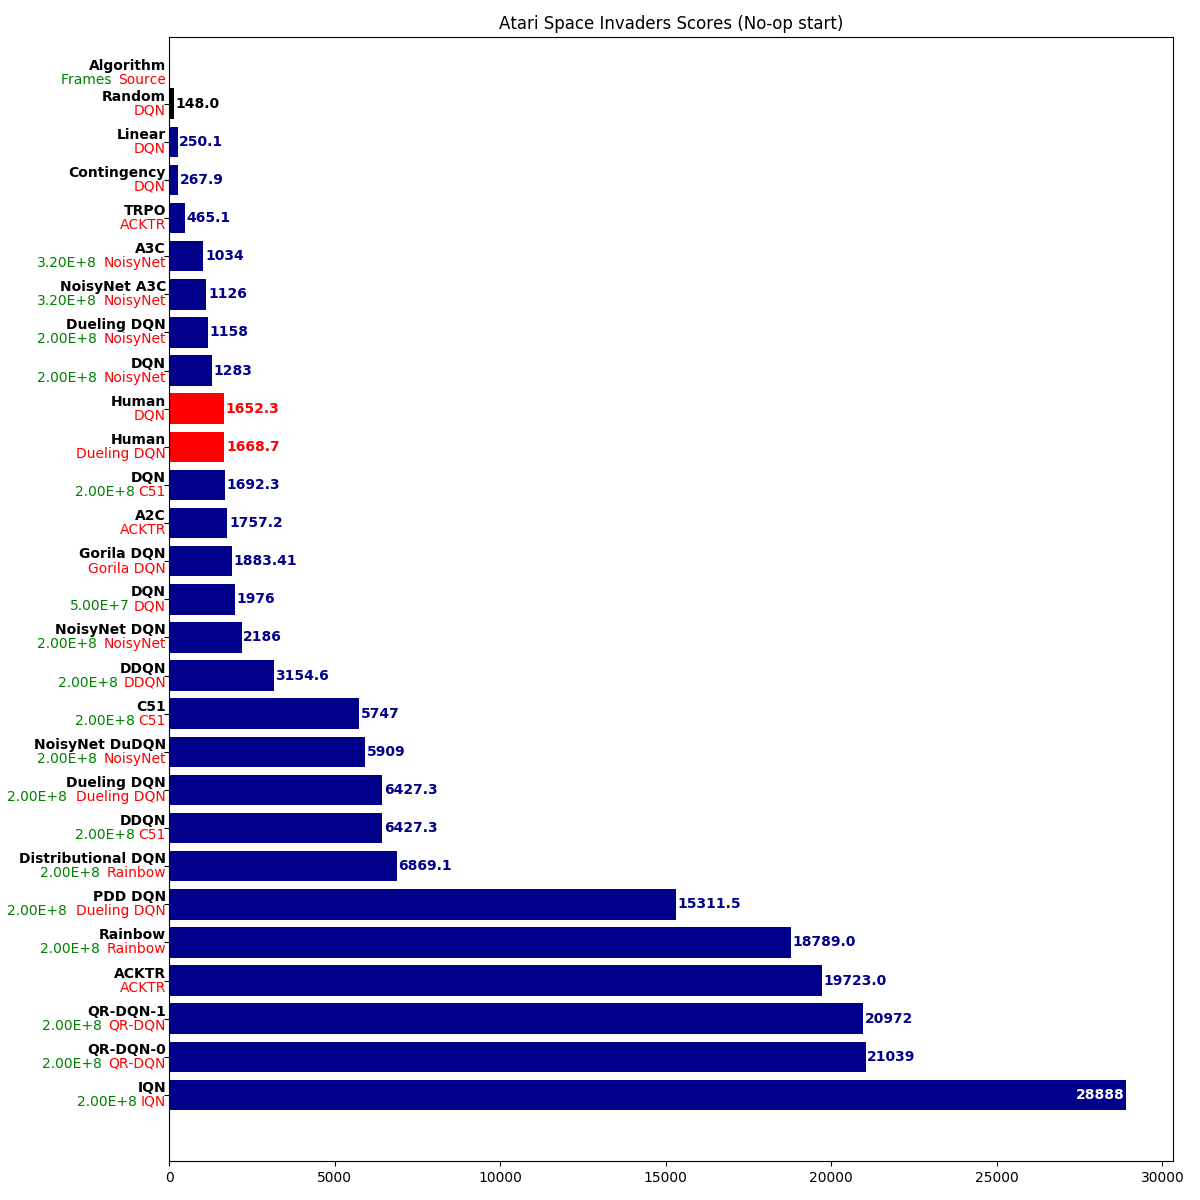
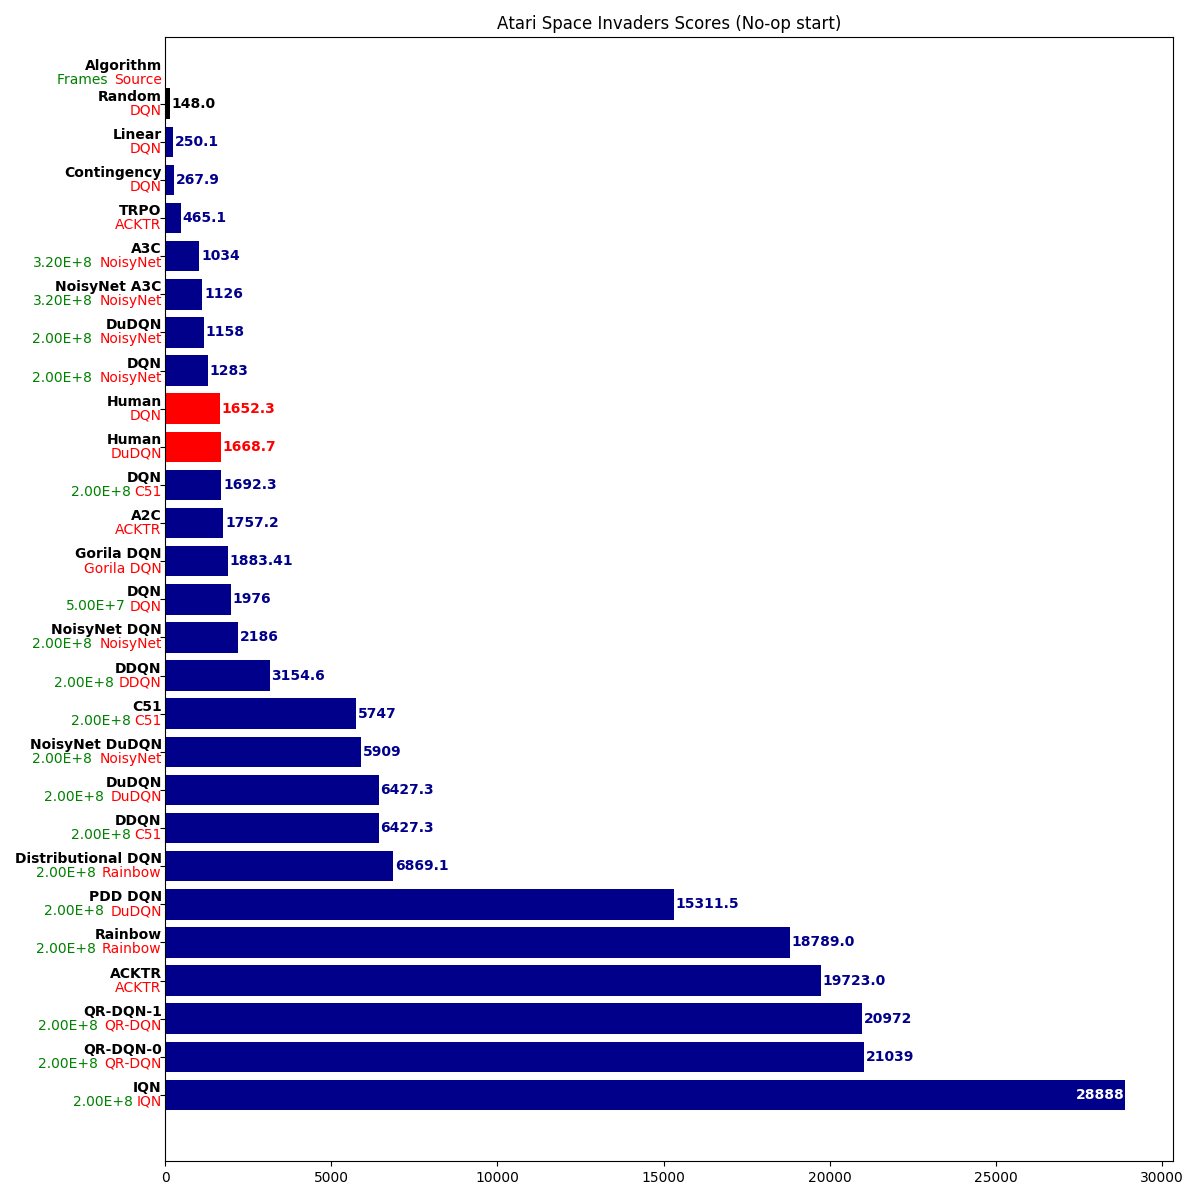
Unify Dueling DQN nicknames to DuDQN (#56)
* Unify Dueling DQN nicknames to DuDQN

* Update README plots

diff --git a/rldb/db/paper__dudqn/__init__.py b/rldb/db/paper__dudqn/__init__.py
@@ -9,7 +9,7 @@ from .algo__random import entries as random_entries
 source = {
     #  BASICS
     "source-title": "Dueling Network Architectures for Deep Reinforcement Learning",
-    "source-nickname": "Dueling DQN",
+    "source-nickname": "DuDQN",
     "source-authors": [
         "Ziyu Wang",
         "Tom Schaul",

diff --git a/rldb/db/paper__dudqn/algo__dudqn/__init__.py b/rldb/db/paper__dudqn/algo__dudqn/__init__.py
@@ -13,7 +13,7 @@ from .entries import entries
 algo = {
     # ALGORITHM
     "algo-title": "Dueling Deep Q-Network",
-    "algo-nickname": "Dueling DQN",
+    "algo-nickname": "DuDQN",
     "algo-source-title": "Dueling Network Architectures for Deep Reinforcement Learning",
 
     # HYPERPARAMETERS

diff --git a/rldb/db/paper__noisynet/algo__dudqn/__init__.py b/rldb/db/paper__noisynet/algo__dudqn/__init__.py
@@ -13,7 +13,7 @@ from .entries import entries
 algo = {
     # ALGORITHM
     "algo-title": "Dueling Deep Q-Network",
-    "algo-nickname": "Dueling DQN",
+    "algo-nickname": "DuDQN",
     "algo-source-title": "Dueling Network Architectures for Deep Reinforcement Learning",
 
     # HYPERPARAMETERS
